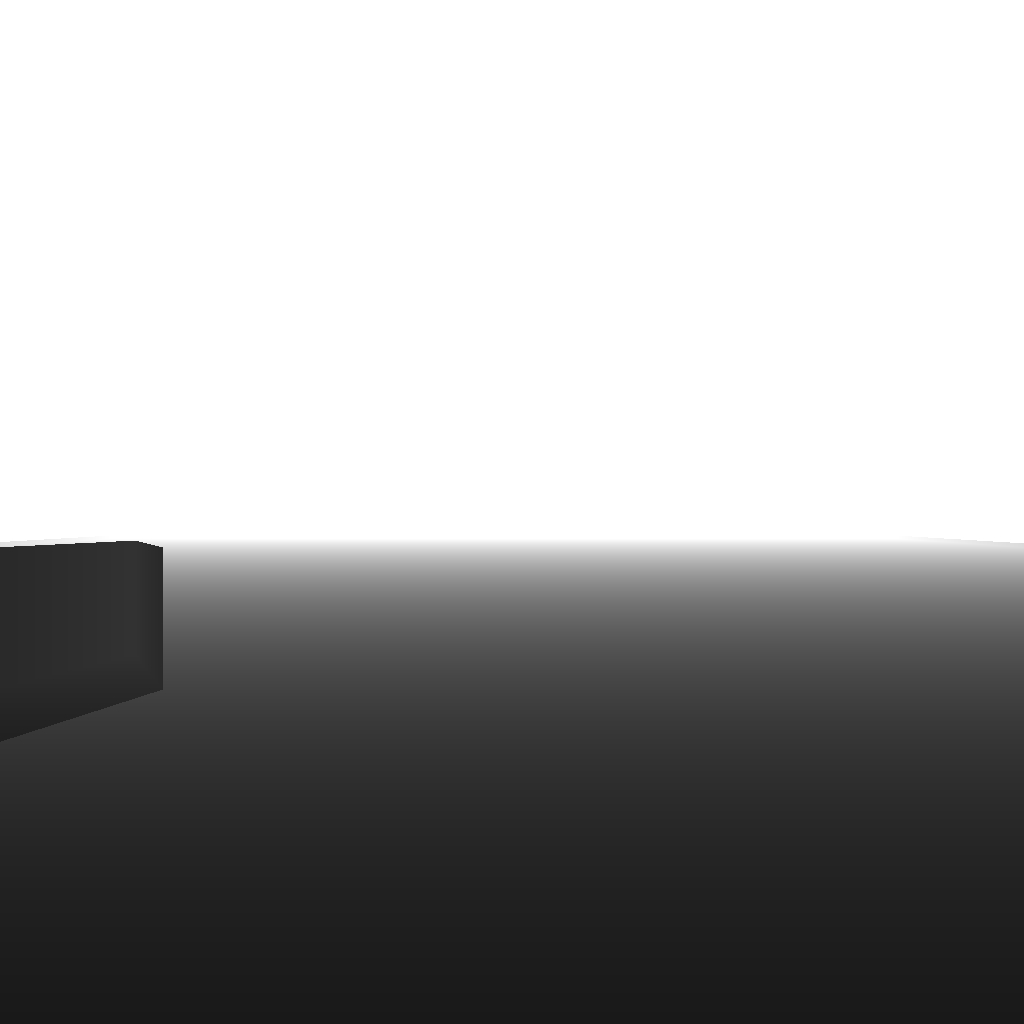
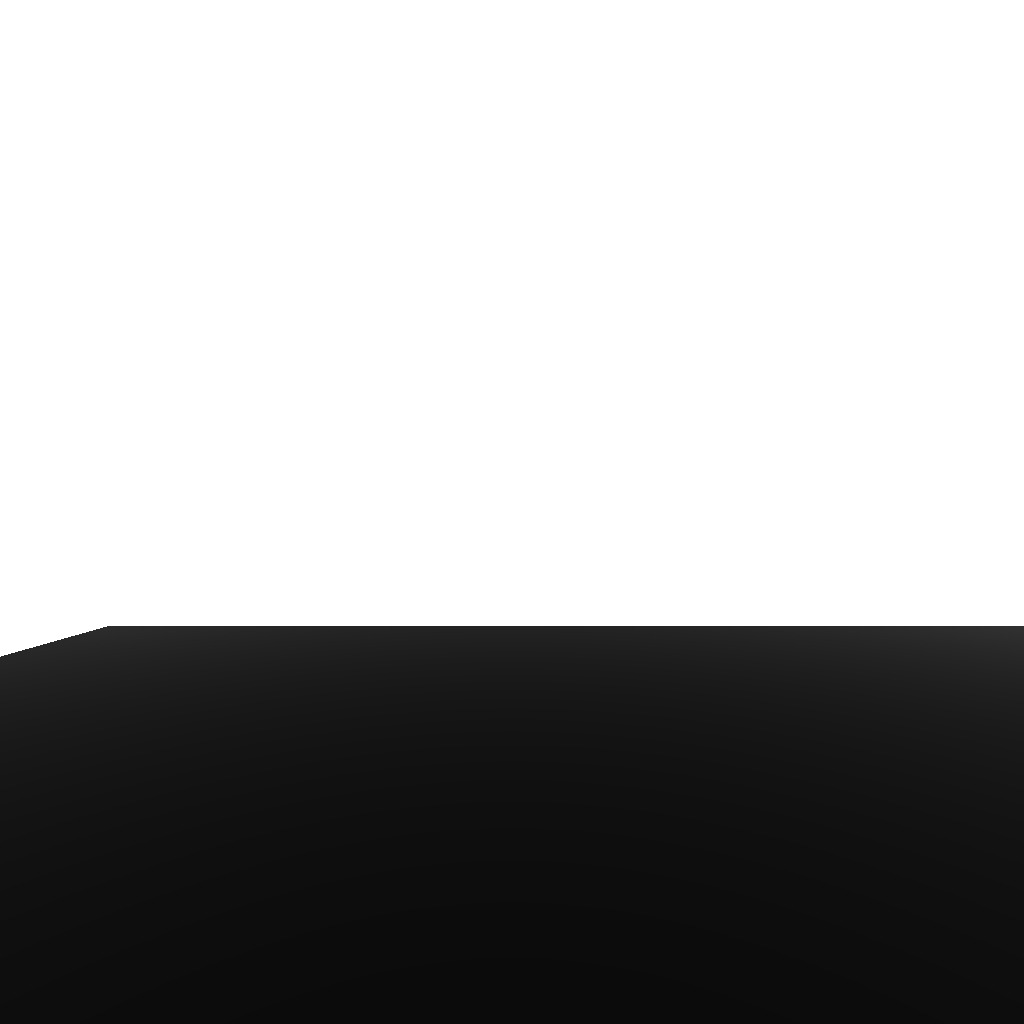
[Change] Point shadows are now correctly generated and displayed in the forward pipeline.

Changed region(s): [[0.0, 0.5312, 1.0, 0.8438]]

diff --git a/Blurp/src/RenderPass_Forward_GL.cpp b/Blurp/src/RenderPass_Forward_GL.cpp
@@ -81,12 +81,21 @@ namespace blurp
         glBindBufferBase(GL_UNIFORM_BUFFER, 4, m_LightUbo);
         glBindBuffer(GL_UNIFORM_BUFFER, 0);
 
+        //Create samplers to sample shadows maps.
+        glGenSamplers(1, &m_ShadowSampler);
+        glSamplerParameteri(m_ShadowSampler, GL_TEXTURE_COMPARE_MODE, GL_COMPARE_REF_TO_TEXTURE);
+        glSamplerParameteri(m_ShadowSampler, GL_TEXTURE_COMPARE_FUNC, GL_LESS);
+        glSamplerParameteri(m_ShadowSampler, GL_TEXTURE_MIN_FILTER, GL_LINEAR);
+        glSamplerParameteri(m_ShadowSampler, GL_TEXTURE_MAG_FILTER, GL_LINEAR);
+        glSamplerParameteri(m_ShadowSampler, GL_TEXTURE_CUBE_MAP_SEAMLESS, GL_TRUE);
+
         return true;
     }
 
     bool RenderPass_Forward_GL::OnDestroy(BlurpEngine& a_BlurpEngine)
     {
         glDeleteBuffers(1, &m_StaticDataUbo);
+        glDeleteSamplers(1, &m_ShadowSampler);
         return true;
     }
 
@@ -174,7 +183,7 @@ namespace blurp
                             LightDataPacked& data = lightBuffer[pSIndex];
 
                             data.vec1 = glm::vec4(light->GetColor(), lData.light->GetIntensity());
-                            data.vec2 = glm::vec4(light->GetPosition(), lData.shadowMapIndex);
+                            data.vec2 = glm::vec4(light->GetPosition(), static_cast<float>(lData.shadowMapIndex));
 
                             ++pSIndex;
                         }
@@ -190,7 +199,7 @@ namespace blurp
                             LightDataPacked& data = lightBuffer[sIndex];
 
                             data.vec1 = glm::vec4(light->GetColor(), lData.light->GetIntensity());
-                            data.vec2 = glm::vec4(light->GetPosition(), lData.shadowMapIndex);
+                            data.vec2 = glm::vec4(light->GetPosition(), static_cast<float>(lData.shadowMapIndex));
                             data.vec3 = glm::vec4(light->GetDirection(), light->GetAngle());
 
                             ++sIndex;
@@ -201,7 +210,7 @@ namespace blurp
                             LightDataPacked& data = lightBuffer[sSIndex];
 
                             data.vec1 = glm::vec4(light->GetColor(), lData.light->GetIntensity());
-                            data.vec2 = glm::vec4(light->GetPosition(), lData.shadowMapIndex);
+                            data.vec2 = glm::vec4(light->GetPosition(), static_cast<float>(lData.shadowMapIndex));
                             data.vec3 = glm::vec4(light->GetDirection(), light->GetAngle());
 
                             ++sSIndex;
@@ -218,7 +227,7 @@ namespace blurp
                             LightDataPacked& data = lightBuffer[dIndex];
 
                             data.vec1 = glm::vec4(light->GetColor(), lData.light->GetIntensity());
-                            data.vec2 = glm::vec4(light->GetDirection(), lData.shadowMapIndex);
+                            data.vec2 = glm::vec4(light->GetDirection(), static_cast<float>(lData.shadowMapIndex));
 
                             data.shadowMatrix = lData.shadowMatrix;
 
@@ -230,7 +239,7 @@ namespace blurp
                             LightDataPacked& data = lightBuffer[dSIndex];
 
                             data.vec1 = glm::vec4(light->GetColor(), lData.light->GetIntensity());
-                            data.vec2 = glm::vec4(light->GetDirection(), lData.shadowMapIndex);
+                            data.vec2 = glm::vec4(light->GetDirection(), static_cast<float>(lData.shadowMapIndex));
 
                             data.shadowMatrix = lData.shadowMatrix;
 
@@ -256,20 +265,23 @@ namespace blurp
         //Bind the shadow samplers if they are specified and there is lights that use shadows.
         if (m_DirectionalShadowMaps != nullptr && m_ShadowCounts.z != 0)
         {
-            glActiveTexture(GL_TEXTURE6);
+            glActiveTexture(GL_TEXTURE0 + 6);
+            glBindSampler(6, m_ShadowSampler);
             glBindTexture(GL_TEXTURE_2D_ARRAY, reinterpret_cast<Texture_GL*>(m_DirectionalShadowMaps.get())->GetTextureId());
         }
         if (m_PointSpotShadowMaps != nullptr && (m_ShadowCounts.x != 0 || m_ShadowCounts.y != 0))
         {
-            glActiveTexture(GL_TEXTURE7);
+            glActiveTexture(GL_TEXTURE0 + 7);
+            glBindSampler(7, m_ShadowSampler);
             glBindTexture(GL_TEXTURE_CUBE_MAP_ARRAY, reinterpret_cast<Texture_GL*>(m_PointSpotShadowMaps.get())->GetTextureId());
+            int o = 5;
         }
         
 
         //Upload the static data to the GPU such as the camera and light counts.
         StaticData staticData;
         staticData.pv = m_Camera->GetProjectionMatrix() * m_Camera->GetViewMatrix();
-        staticData.camPos = glm::vec4(m_Camera->GetTransform().GetTranslation(), 0.f);
+        staticData.camPosFarPlane = glm::vec4(m_Camera->GetTransform().GetTranslation(), m_Camera->GetSettings().farPlane);
         staticData.numLights = glm::vec4(m_LightCounts, 0.f);
         staticData.numShadows = glm::vec4(m_ShadowCounts, 0.f);
         staticData.ambientLight = glm::vec4(m_AmbientLight, 0.f);
@@ -477,6 +489,9 @@ namespace blurp
             glDrawElementsInstanced(GL_TRIANGLES, mesh->GetNumIndices(), mesh->GetIndexDataType(), nullptr, instanceData.instanceCount * mesh->GetInstanceCount());
         }
 
+        //Unbind state that may affect other rendering.
+        glBindSampler(6, 0);
+        glBindSampler(7, 0);
         glBindBuffer(GL_UNIFORM_BUFFER, 0);
         glBindBuffer(GL_SHADER_STORAGE_BUFFER, 0);
         glBindVertexArray(0);

diff --git a/Blurp/src/RenderPass_ShadowMap_GL.cpp b/Blurp/src/RenderPass_ShadowMap_GL.cpp
@@ -121,6 +121,10 @@ namespace blurp
             std::vector<PosLightData> posLightData;
             posLightData.resize(m_PositionalLights.size());
 
+            //Use the camera near and far plane for this light projection. Store light depth within the near-far range.
+            const auto nearPlane = m_Camera->GetSettings().nearPlane;
+            const auto farPlane = m_Camera->GetSettings().farPlane;
+
             for(int i = 0; i < static_cast<int>(m_PositionalLights.size()); ++i)
             {
                 auto& data = m_PositionalLights[i];
@@ -128,16 +132,19 @@ namespace blurp
                 //Shadow map index.
                 posLightData[i].shadowMapIndex.x = data.index;
 
+                //Store the light position as well to calculate the light distance from the fragment for depth storing.
+                posLightData[i].lightPosition = glm::vec4(data.data, 1.0);
+
                 //Calculate the projection matrix. Aspect is 1 because cubemaps have equal width and height.
-                glm::mat4 projection = glm::perspective(90.f, 1.f, data.nearPlane, data.farPlane);
+                glm::mat4 projection = glm::perspective(glm::radians(90.f), 1.f, nearPlane, farPlane);
 
                 //PV matrices for each face.
-                posLightData[i].matrices[0] = projection * glm::lookAt(data.data, data.data + glm::vec3(1.0, 0.0, 0.0), glm::vec3(0.0, 1.0, 0.0));
-                posLightData[i].matrices[1] = projection * glm::lookAt(data.data, data.data + glm::vec3(-1.0, 0.0, 0.0), glm::vec3(0.0, 1.0, 0.0));
-                posLightData[i].matrices[2] = projection * glm::lookAt(data.data, data.data + glm::vec3(0.0, 1.0, 0.0), glm::vec3(1.0, 0.0, 0.0));
-                posLightData[i].matrices[3] = projection * glm::lookAt(data.data, data.data + glm::vec3(0.0, -1.0, 0.0), glm::vec3(1.0, 0.0, 0.0));
-                posLightData[i].matrices[4] = projection * glm::lookAt(data.data, data.data + glm::vec3(0.0, 0.0, 1.0), glm::vec3(0.0, 1.0, 0.0));
-                posLightData[i].matrices[5] = projection * glm::lookAt(data.data, data.data + glm::vec3(0.0, 0.0, -1.0), glm::vec3(0.0, 1.0, 0.0));
+                posLightData[i].matrices[0] = projection * glm::lookAt(data.data, data.data + glm::vec3(1.0, 0.0, 0.0), glm::vec3(0.0, -1.0, 0.0));
+                posLightData[i].matrices[1] = projection * glm::lookAt(data.data, data.data + glm::vec3(-1.0, 0.0, 0.0), glm::vec3(0.0, -1.0, 0.0));
+                posLightData[i].matrices[2] = projection * glm::lookAt(data.data, data.data + glm::vec3(0.0, 1.0, 0.0), glm::vec3(0.0, 0.0, 1.0));
+                posLightData[i].matrices[3] = projection * glm::lookAt(data.data, data.data + glm::vec3(0.0, -1.0, 0.0), glm::vec3(0.0, 0.0, -1.0));
+                posLightData[i].matrices[4] = projection * glm::lookAt(data.data, data.data + glm::vec3(0.0, 0.0, 1.0), glm::vec3(0.0, -1.0, 0.0));
+                posLightData[i].matrices[5] = projection * glm::lookAt(data.data, data.data + glm::vec3(0.0, 0.0, -1.0), glm::vec3(0.0, -1.0, 0.0));
             }
 
             //Upload light data.
@@ -196,6 +203,9 @@ namespace blurp
 
                 //Set the number of instances from the mesh itself in the uniform.
                 glUniform1i(0, mesh->GetInstanceCount());
+
+                //Set the uniform for the far plane.
+                glUniform1f(1, farPlane);
 
                 //Calculate light indices. Has to be in vec4 format padded to vec4 size.
                 const LightIndexData& indices = m_LightIndices[i];

diff --git a/BlurpTest/ShadowTestScene.cpp b/BlurpTest/ShadowTestScene.cpp
@@ -16,8 +16,8 @@
 
 #define NUM_SHADOW_POS_LIGHTS 1
 
-#define NEAR_PLANE 1.f
-#define FAR_PLANE 100.f
+#define NEAR_PLANE 0.1f
+#define FAR_PLANE 1000.f
 
 const static std::float_t CUBE_DATA[]
 {
@@ -86,7 +86,7 @@ void ShadowTestScene::Init()
     CameraSettings camSettings;
     camSettings.width = m_Window->GetDimensions().x;
     camSettings.height = m_Window->GetDimensions().y;
-    camSettings.fov = 120.f;
+    camSettings.fov = 90.f;
     camSettings.nearPlane = NEAR_PLANE;
     camSettings.farPlane = FAR_PLANE;
     m_Camera = m_Engine.GetResourceManager().CreateCamera(camSettings);
@@ -147,10 +147,10 @@ void ShadowTestScene::Init()
         CameraSettings camS;
         camS.width = w;
         camS.height = h;
-        camS.fov = 120.f;
+        camS.fov = 90.f;
         camS.nearPlane = 0.1f;
         camS.farPlane = FAR_PLANE;
-        m_Camera->SetProjection(camS);
+        m_Camera->UpdateSettings(camS);
     });
 
     //Create the GPU buffer containing the transform for the mesh.
@@ -370,7 +370,7 @@ void ShadowTestScene::Update()
     m_LightMeshDrawData.transformData.dataRange = m_TransformBuffer->WriteData<glm::mat4>(m_PlaneDrawData.transformData.dataRange.end, 1, 16, &lightMat);
 
     //Add the light to the scene.
-    m_ForwardPass->AddLight(m_Light);//TODO add shadow map index
+    m_ForwardPass->AddLight(m_Light, 0, glm::mat4());
     m_ForwardPass->AddLight(m_AmbientLight);
 
     std::vector<DrawData> drawDatas = {m_PlaneDrawData};
@@ -397,11 +397,11 @@ void ShadowTestScene::Update()
     //Don't count the light for the shadow.
     drawDatas.push_back(m_LightMeshDrawData);
 
-    //Setup the shadow mapping for this frame.
-    m_ShadowGenerationPass->AddLight(m_Light, 0, NEAR_PLANE, FAR_PLANE);
+    //Setup the shadow mapping for this frame. Exclude the last Drawdata which is the light mesh.
+    m_ShadowGenerationPass->AddLight(m_Light, 0);
     std::vector<LightIndexData> lIndexData;
-    lIndexData.reserve(drawDatas.size());
-    for(int i = 0; i < static_cast<int>(drawDatas.size()); ++i)
+    lIndexData.reserve(drawDatas.size() - 1);
+    for(int i = 0; i < static_cast<int>(drawDatas.size() - 1); ++i)
     {
         lIndexData.emplace_back(LightIndexData{std::vector<int>(), std::vector<int>{0}});
     }
@@ -448,7 +448,7 @@ void ShadowTestScene::Update()
 
                     float linear = (2.0 * NEAR_PLANE) / (FAR_PLANE + NEAR_PLANE - f * (FAR_PLANE - NEAR_PLANE));
 
-                    unsigned char value =  static_cast<unsigned char>(linear * 255.f);
+                    unsigned char value =  static_cast<unsigned char>(f * 255.f);
                     for (int k = 0; k < 3; ++k)
                     {
                         converted[coordX + coordY + 0] = value;

diff --git a/Blurp/src/RenderPass_ShadowMap.cpp b/Blurp/src/RenderPass_ShadowMap.cpp
@@ -8,7 +8,7 @@ namespace blurp
         m_Camera = a_Camera;
     }
 
-    void RenderPass_ShadowMap::AddLight(const std::shared_ptr<Light>& a_Light, std::uint32_t a_Index, float a_Near, float a_Far)
+    void RenderPass_ShadowMap::AddLight(const std::shared_ptr<Light>& a_Light, std::uint32_t a_Index)
     {
         assert(a_Light && "Light cannot be nullptr!");
 
@@ -16,13 +16,13 @@ namespace blurp
         switch (a_Light->GetType())
         {
         case LightType::LIGHT_POINT:
-            m_PositionalLights.emplace_back(LightShadowData(a_Index, std::static_pointer_cast<PointLight>(a_Light)->GetPosition(), a_Near, a_Far));
+            m_PositionalLights.emplace_back(LightShadowData(a_Index, std::static_pointer_cast<PointLight>(a_Light)->GetPosition()));
             break;
         case LightType::LIGHT_SPOT:
-            m_PositionalLights.emplace_back(LightShadowData(a_Index, std::static_pointer_cast<SpotLight>(a_Light)->GetPosition(), a_Near, a_Far));
+            m_PositionalLights.emplace_back(LightShadowData(a_Index, std::static_pointer_cast<SpotLight>(a_Light)->GetPosition()));
             break;
         case LightType::LIGHT_DIRECTIONAL:
-            m_DirectionalLights.emplace_back(LightShadowData(a_Index, std::static_pointer_cast<DirectionalLight>(a_Light)->GetDirection(), a_Near, a_Far));
+            m_DirectionalLights.emplace_back(LightShadowData(a_Index, std::static_pointer_cast<DirectionalLight>(a_Light)->GetDirection()));
             break;
         default:
             throw std::exception("Light type cannot generate a shadow!");

diff --git a/Blurp/include/api/RenderPass_ShadowMap.h b/Blurp/include/api/RenderPass_ShadowMap.h
@@ -10,7 +10,7 @@ namespace blurp
      */
     struct LightShadowData
     {
-        LightShadowData(std::int32_t a_Index, const glm::vec3& a_Data, float a_Near, float a_Far) : index(a_Index), data(a_Data), farPlane(a_Far), nearPlane(a_Near)
+        LightShadowData(std::int32_t a_Index, const glm::vec3& a_Data) : index(a_Index), data(a_Data)
         {
             
         }
@@ -20,12 +20,6 @@ namespace blurp
 
         //The lights position or direction.
         glm::vec3 data;
-
-        //The far plane. This is the maximum shadow distance for this light.
-        float farPlane;
-
-        //The near plane. This is the minimum shadow distance for this light.
-        float nearPlane;
     };
 
     struct LightIndexData
@@ -57,7 +51,7 @@ namespace blurp
          * The index provided is the index into the array texture where the generated shadowmap will be stored.
          * Near and Far are used to construct the projection matrix for this light.
          */
-        void AddLight(const std::shared_ptr<Light>& a_Light, std::uint32_t a_Index, float a_Near, float a_Far);
+        void AddLight(const std::shared_ptr<Light>& a_Light, std::uint32_t a_Index);
 
         /*
          * Set the geometry that should cast shadows.

diff --git a/Blurp/src/Camera.cpp b/Blurp/src/Camera.cpp
@@ -20,10 +20,10 @@ namespace blurp
         {
             if(m_Settings.projectionMode == ProjectionMode::PERSPECTIVE)
             {
-                m_Projection = glm::perspective(m_Settings.fov, m_Settings.width / m_Settings.height, m_Settings.nearPlane, m_Settings.farPlane);
+                m_Projection = glm::perspective(glm::radians(m_Settings.fov), m_Settings.width / m_Settings.height, m_Settings.nearPlane, m_Settings.farPlane);
             }
             else
-            {
+            { 
                 m_Projection = glm::ortho(0.0f, m_Settings.width, m_Settings.height, 0.0f, 0.1f, 100.0f);
             }
             
@@ -33,10 +33,15 @@ namespace blurp
         return m_Projection;
     }
 
-    void Camera::SetProjection(const CameraSettings& a_Settings)
+    void Camera::UpdateSettings(const CameraSettings& a_Settings)
     {
         m_Settings = a_Settings;
         m_DirtyFlag = true;
+    }
+
+    const CameraSettings& Camera::GetSettings() const
+    {
+        return m_Settings;
     }
 
     Transform& Camera::GetTransform()

diff --git a/Blurp/include/internal/opengl/RenderPass_Forward_GL.h b/Blurp/include/internal/opengl/RenderPass_Forward_GL.h
@@ -14,7 +14,7 @@ namespace blurp
     struct StaticData
     {
         glm::mat4 pv;
-        glm::vec4 camPos;
+        glm::vec4 camPosFarPlane;
         glm::vec4 numLights;        //X = numPointLight. Y = numSpotLights. Z = numDirectionalLights.
         glm::vec4 numShadows;       //X = numPointShadows. Y = numSpotShadows. Z = numDirectionalShadows.
         glm::vec4 ambientLight;     //The ambient light RGB.
@@ -38,7 +38,7 @@ namespace blurp
     {
     public:
         RenderPass_Forward_GL(RenderPipeline& a_Pipeline)
-            : RenderPass_Forward(a_Pipeline), m_StaticDataUbo(0), m_LightUbo(0)
+            : RenderPass_Forward(a_Pipeline), m_StaticDataUbo(0), m_LightUbo(0), m_ShadowSampler(0)
         {
         }
 
@@ -56,5 +56,8 @@ namespace blurp
 
         //UBOs used for light uploading and light transforming.
         GLuint m_LightUbo;
+
+        //Shadow sampler objects with texture comparisons enabled.
+        GLuint m_ShadowSampler;
     };
 }

diff --git a/Blurp/include/api/Camera.h b/Blurp/include/api/Camera.h
@@ -22,7 +22,13 @@ namespace blurp
         /*
          * Set the projection settings for this camera.
          */
-        void SetProjection(const CameraSettings& a_Settings);
+        void UpdateSettings(const CameraSettings& a_Settings);
+
+        /*
+         * Get the settings for this camera object.
+         * Returned as a const reference.
+         */
+        const CameraSettings& GetSettings() const;
 
         /*
          * Get the transform for this camera.

diff --git a/BlurpTest/LightTestScene.cpp b/BlurpTest/LightTestScene.cpp
@@ -113,7 +113,7 @@ void LightTestScene::Init()
         camS.fov = 120.f;
         camS.nearPlane = 0.1f;
         camS.farPlane = 1000.f;
-        m_Camera->SetProjection(camS);
+        m_Camera->UpdateSettings(camS);
     });
 
     //Create the GPU buffer containing the transform for the mesh.

diff --git a/BlurpTest/MaterialTestScene.cpp b/BlurpTest/MaterialTestScene.cpp
@@ -115,7 +115,7 @@ void MaterialTestScene::Init()
         camS.fov = 120.f;
         camS.nearPlane = 0.1f;
         camS.farPlane = 1000.f;
-        m_Camera->SetProjection(camS);
+        m_Camera->UpdateSettings(camS);
 
     });
 

diff --git a/Blurp/include/internal/opengl/RenderPass_ShadowMap_GL.h b/Blurp/include/internal/opengl/RenderPass_ShadowMap_GL.h
@@ -10,6 +10,7 @@ namespace blurp
 {
     struct PosLightData
     {
+        glm::vec4 lightPosition;
         glm::mat4 matrices[6];
         glm::vec<4, std::int32_t> shadowMapIndex;   //3 Bytes padding.
     };
